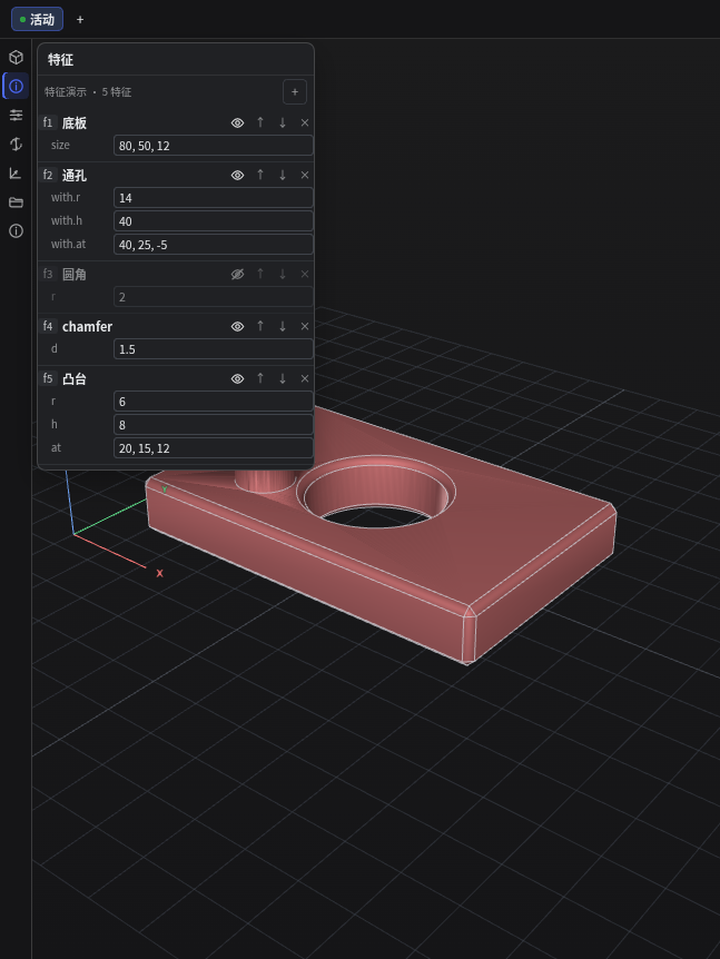
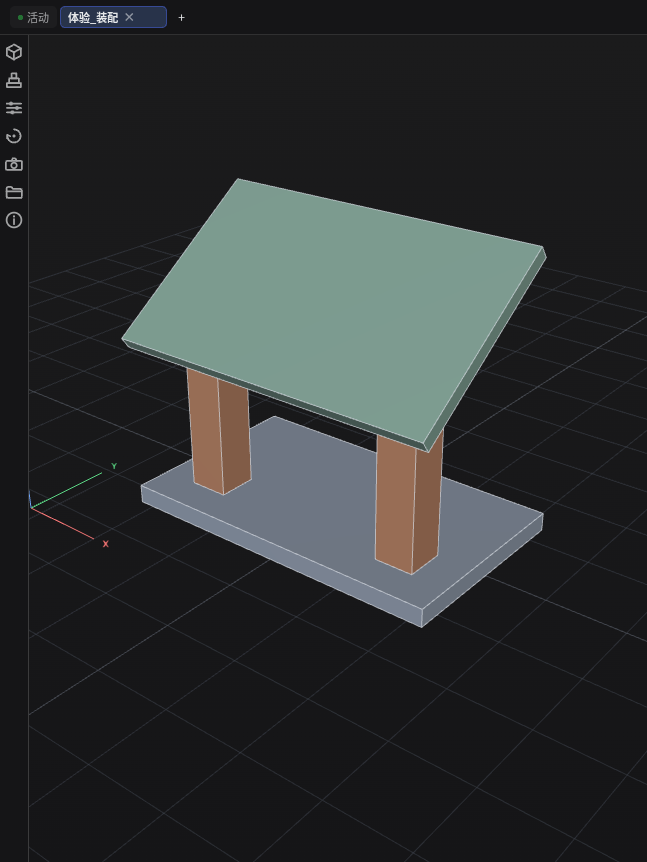
docs: reshoot the README screenshots on a test instance
- docs/{preview,props,features,params,motion,tabs,rail}.png re-shot from the
  dev instance with the synthetic 体验_* models; every shot is the panel
  element only, so no real workspace/session/path leaks into the docs
- scripts/shots.mjs: reproducible capture (opens the pane through the plugin's
  own debug hook instead of the host launcher, which moves between versions)
- scripts/dev-keep-demos.mjs: trim a test instance's model list back to the
  demo set (it grows a row per probe publish)
- cad_studio_scene hydrates the row list before list/delete/rename, so a fresh
  process no longer reports an empty list
- README: gallery, 16 tools, 165 regression cases, how to regenerate

diff --git a/client.js b/client.js
@@ -2668,7 +2668,10 @@ const FILE_EXTS = ['step', 'stp', 'iges', 'igs', 'brep', 'stl']
         try {
           Object.defineProperty(window, '__cadStudioAutoOpen', {
             configurable: true,
-            get: () => ({ ...autoOpenTrace, mode: cadAutoOpen, session: panelSession }),
+            // `open()` is for tooling: it is how a screenshot script (or a user
+            // who closed the pane) brings the tab back without hunting for the
+            // host's own launcher.
+            get: () => ({ ...autoOpenTrace, mode: cadAutoOpen, session: panelSession, open: () => openPane(0) }),
           })
         } catch (err) { /* a stale definition from a previous apply is fine */ }
 

diff --git a/index.js b/index.js
@@ -1215,6 +1215,9 @@ __out = {
     },
     execute: async ({ action, id, title }) => {
       const kind = String(action ?? 'list')
+      // A fresh process starts with an empty in-memory list; the rows live in
+      // state.json until the next publish hydrates them.
+      await bridge.hydrateHistory()
       if (kind === 'list') {
         const rows = bridge.listSceneRows()
         return { ok: true, scenes: rows.length, latest: bridge.latest ? bridge.latest.id : '', items: rows }
